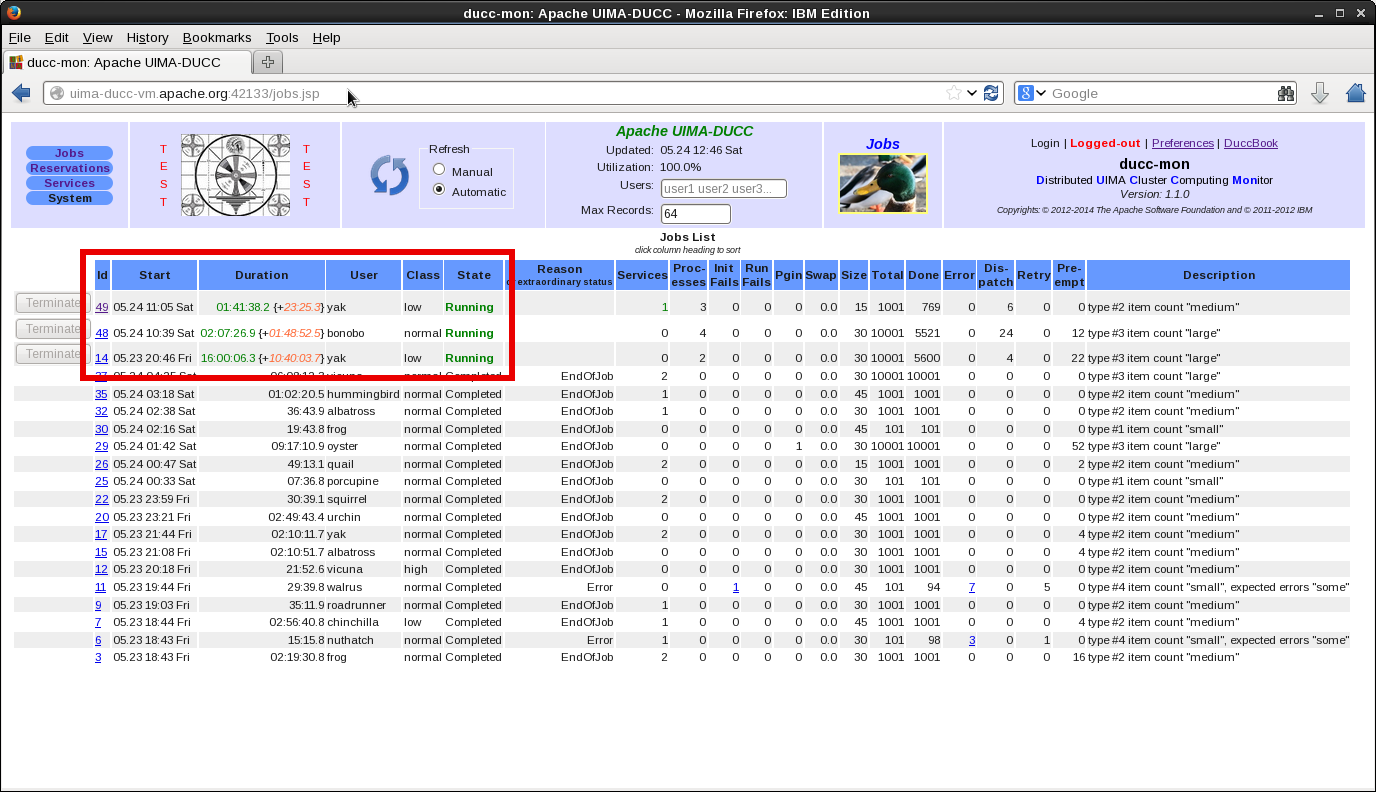
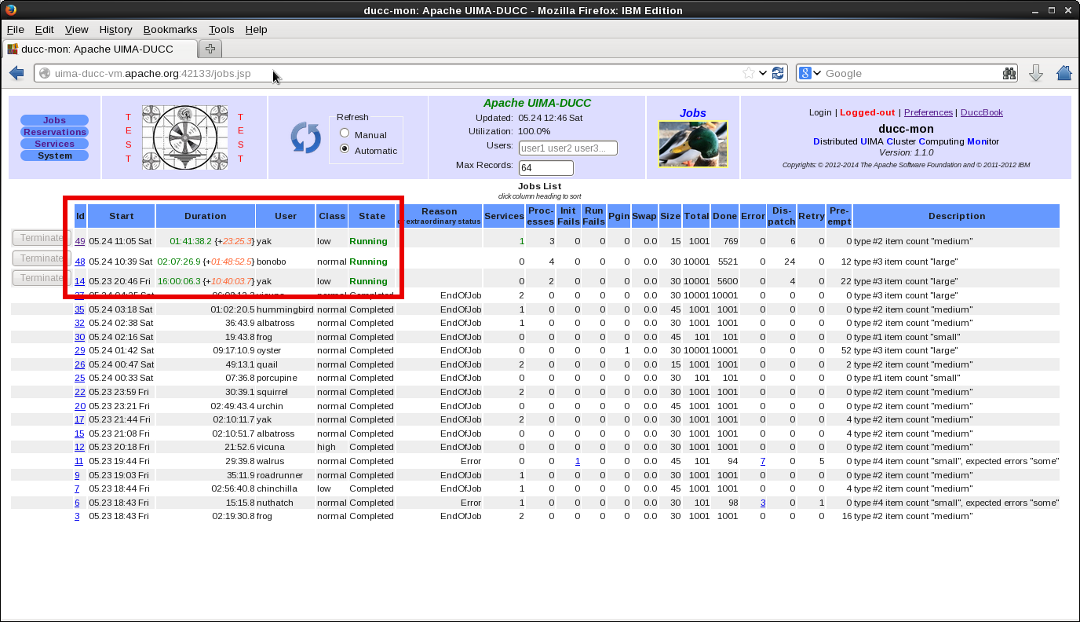
UIMA-3806 Explain DUCC demo
The "Demo Page" by virtue of the images with answers next to the images with questions make the entire page too wide.

Move images below navigation.
Shrink images by 25% or so.

git-svn-id: https://svn.apache.org/repos/asf/uima/site/trunk/uima-website@1599450 13f79535-47bb-0310-9956-ffa450edef68

diff --git a/docs/doc-uimaducc-demo.html b/docs/doc-uimaducc-demo.html
@@ -366,8 +366,6 @@
       Question
 	  </div>
 	 </td>
-	 </tr>
-	 <tr>
 	 <td align="center" valign="middle">
 	  <table>
 	  <tr>
@@ -400,8 +398,6 @@
 	  </tr>
 	 </table>
 	 </td>
-	 </tr>
-	 <tr>
 	 <td align="center" valign="middle">
 	  <div>
 	  <a onClick="goRight('q1');">
@@ -417,6 +413,14 @@
 	 </tr>
 	 </table>
     </td>
+   </tr> 
+   <tr>
+    <td>
+    <br />
+    <br />
+    </td>
+    </tr>
+   <tr> 
     <td valign="top">
      <img src="./images/ducc-demo/q1.rhs.png" />
     </td>
@@ -441,8 +445,6 @@
       Question
 	  </div>
 	 </td>
-	 </tr>
-	 <tr>
 	 <td align="center" valign="middle">
 	  <table>
 	  <tr>
@@ -475,8 +477,6 @@
 	  </tr>
 	 </table>
 	 </td>
-	 </tr>
-	 <tr>
 	 <td align="center" valign="middle">
 	  <div>
 	  <a onClick="goRight('q2');">
@@ -492,6 +492,14 @@
 	 </tr>
 	 </table>
     </td>
+    </tr>
+    <tr>
+    <td>
+    <br />
+    <br />
+    </td>
+    </tr>
+    <tr>
     <td valign="top">
      <img src="./images/ducc-demo/q2.rhs.png" />
     </td>
@@ -516,8 +524,6 @@
       Question
 	  </div>
 	 </td>
-	 </tr>
-	 <tr>
 	 <td align="center" valign="middle">
 	  <table>
 	  <tr>
@@ -550,8 +556,6 @@
 	  </tr>
 	 </table>
 	 </td>
-	 </tr>
-	 <tr>
 	 <td align="center" valign="middle">
 	  <div>
 	  <a onClick="goRight('q3');">
@@ -567,6 +571,14 @@
 	 </tr>
 	 </table>
     </td>
+    </tr>
+    <tr>
+    <td>
+    <br />
+    <br />
+    </td>
+    </tr>
+    <tr>
     <td valign="top">
      <img src="./images/ducc-demo/q3.rhs.png" />
     </td>
